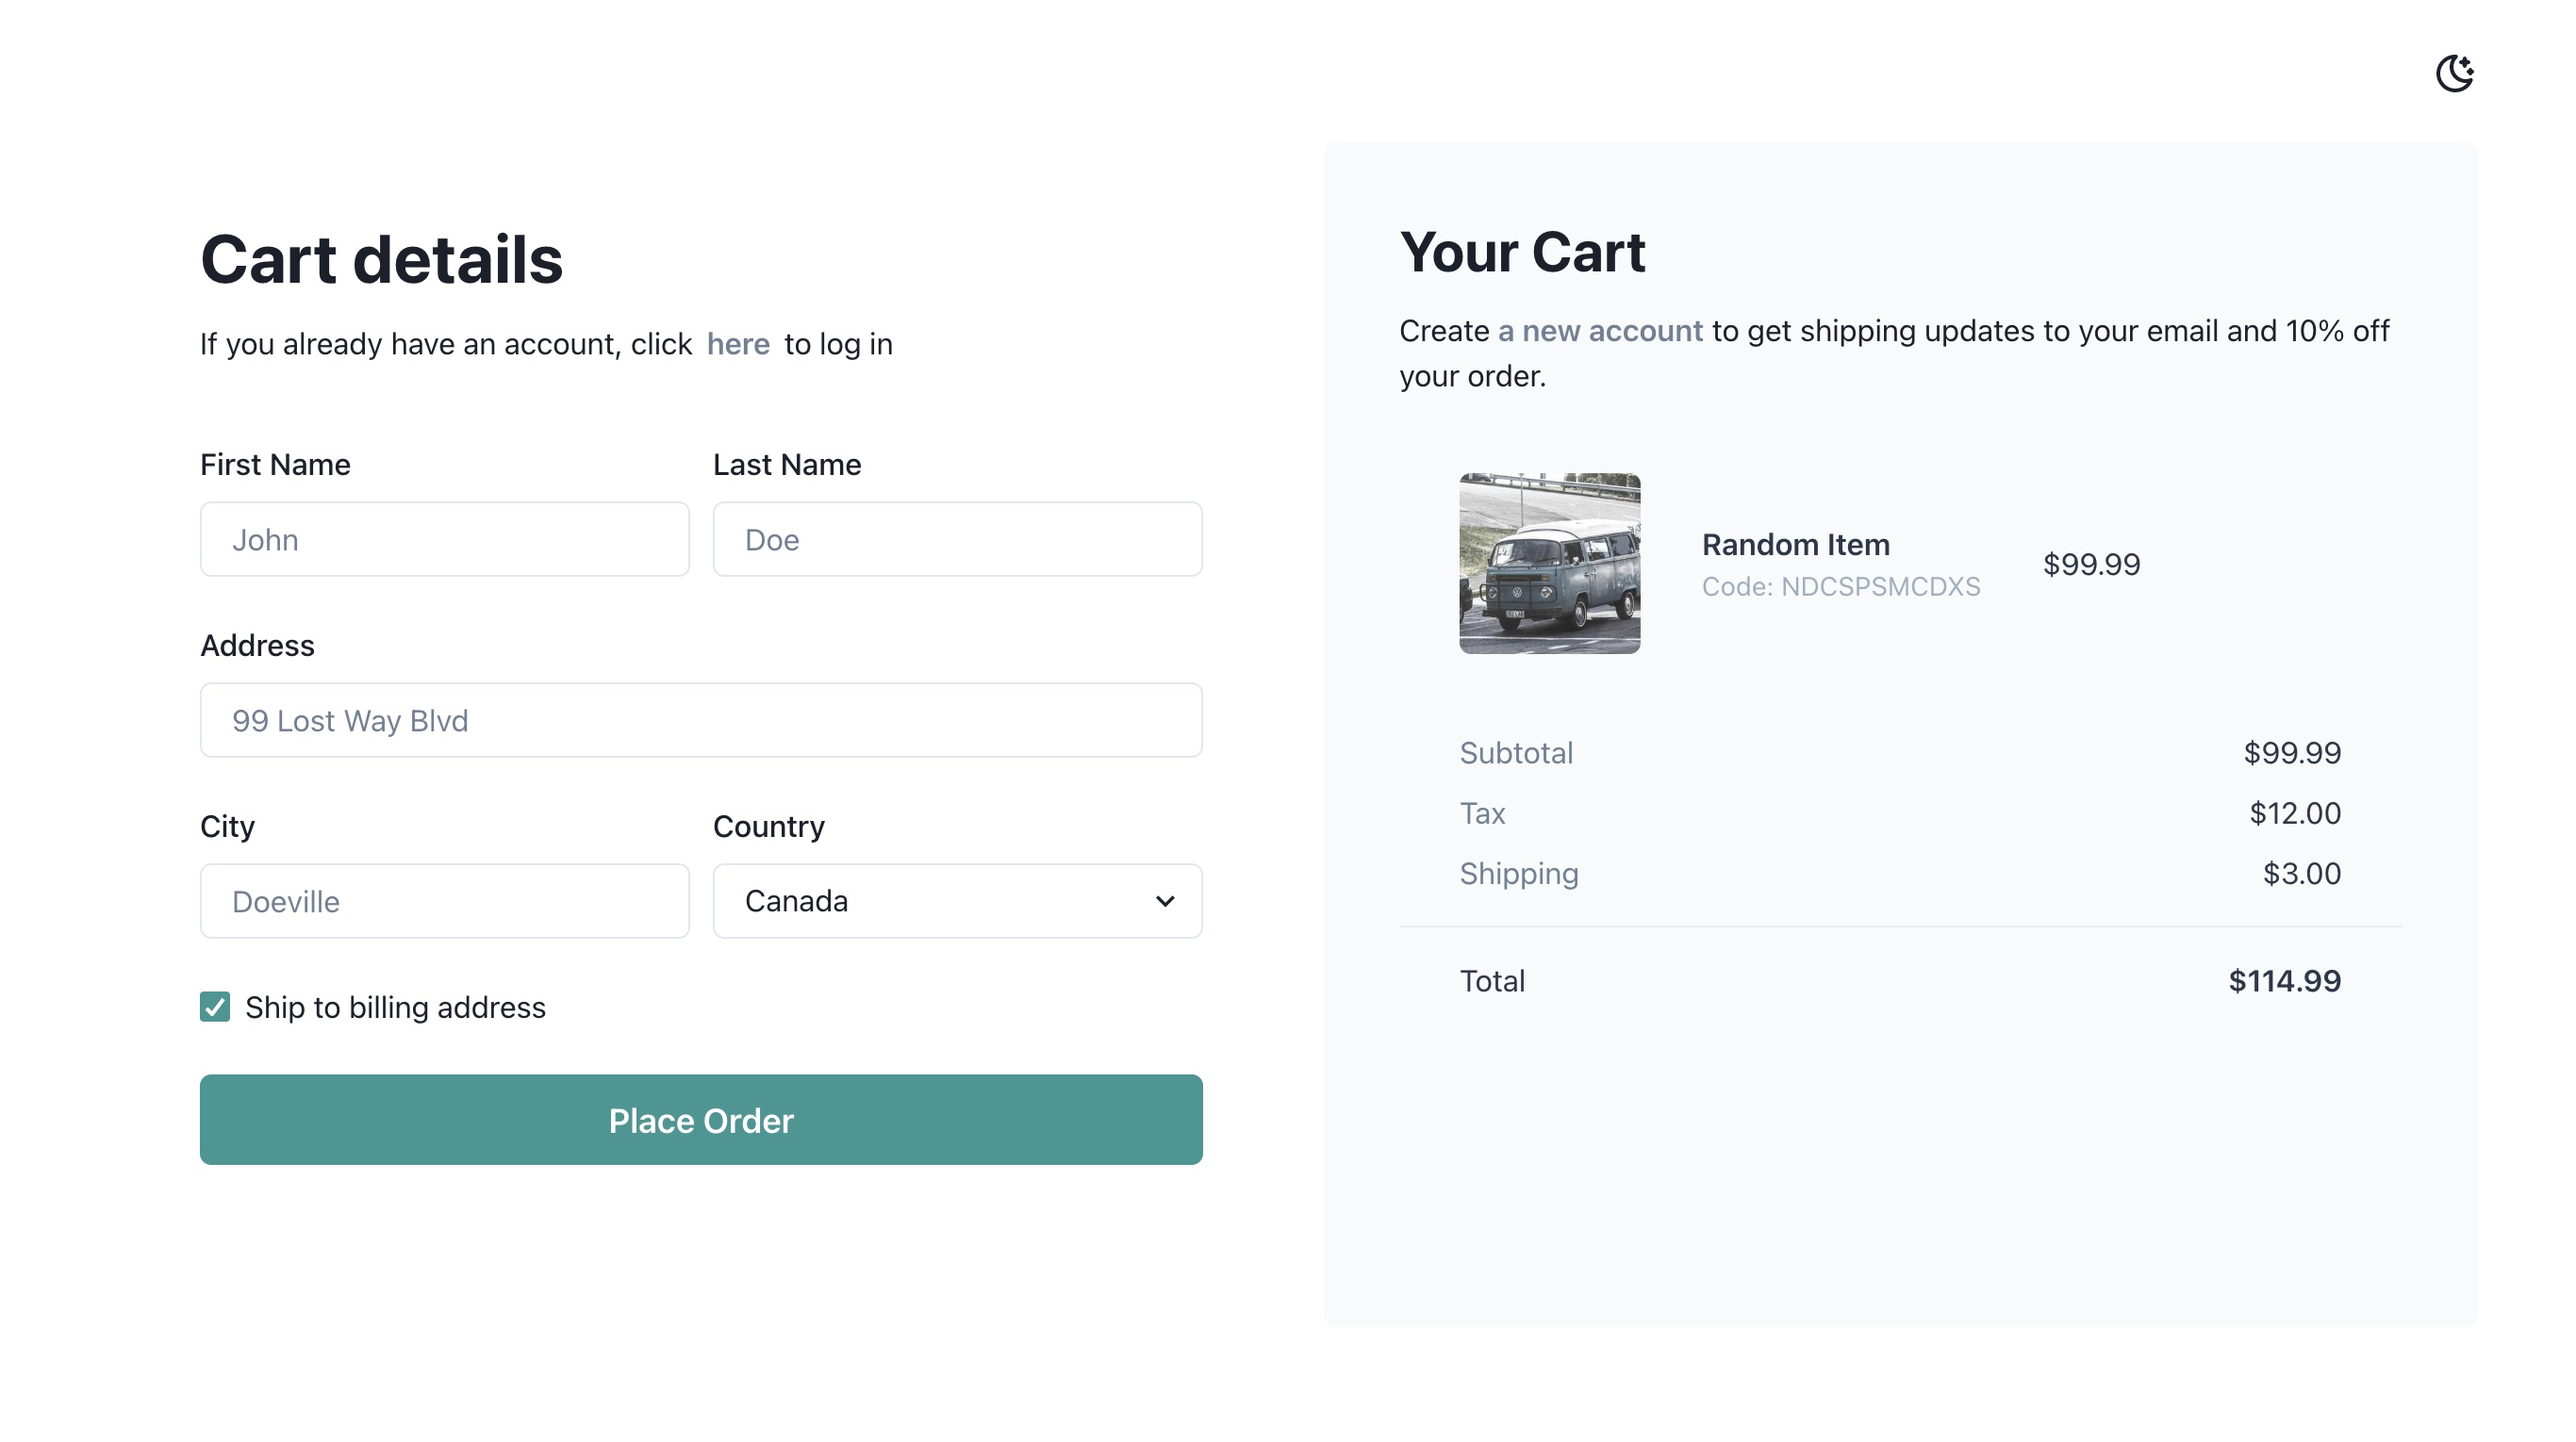
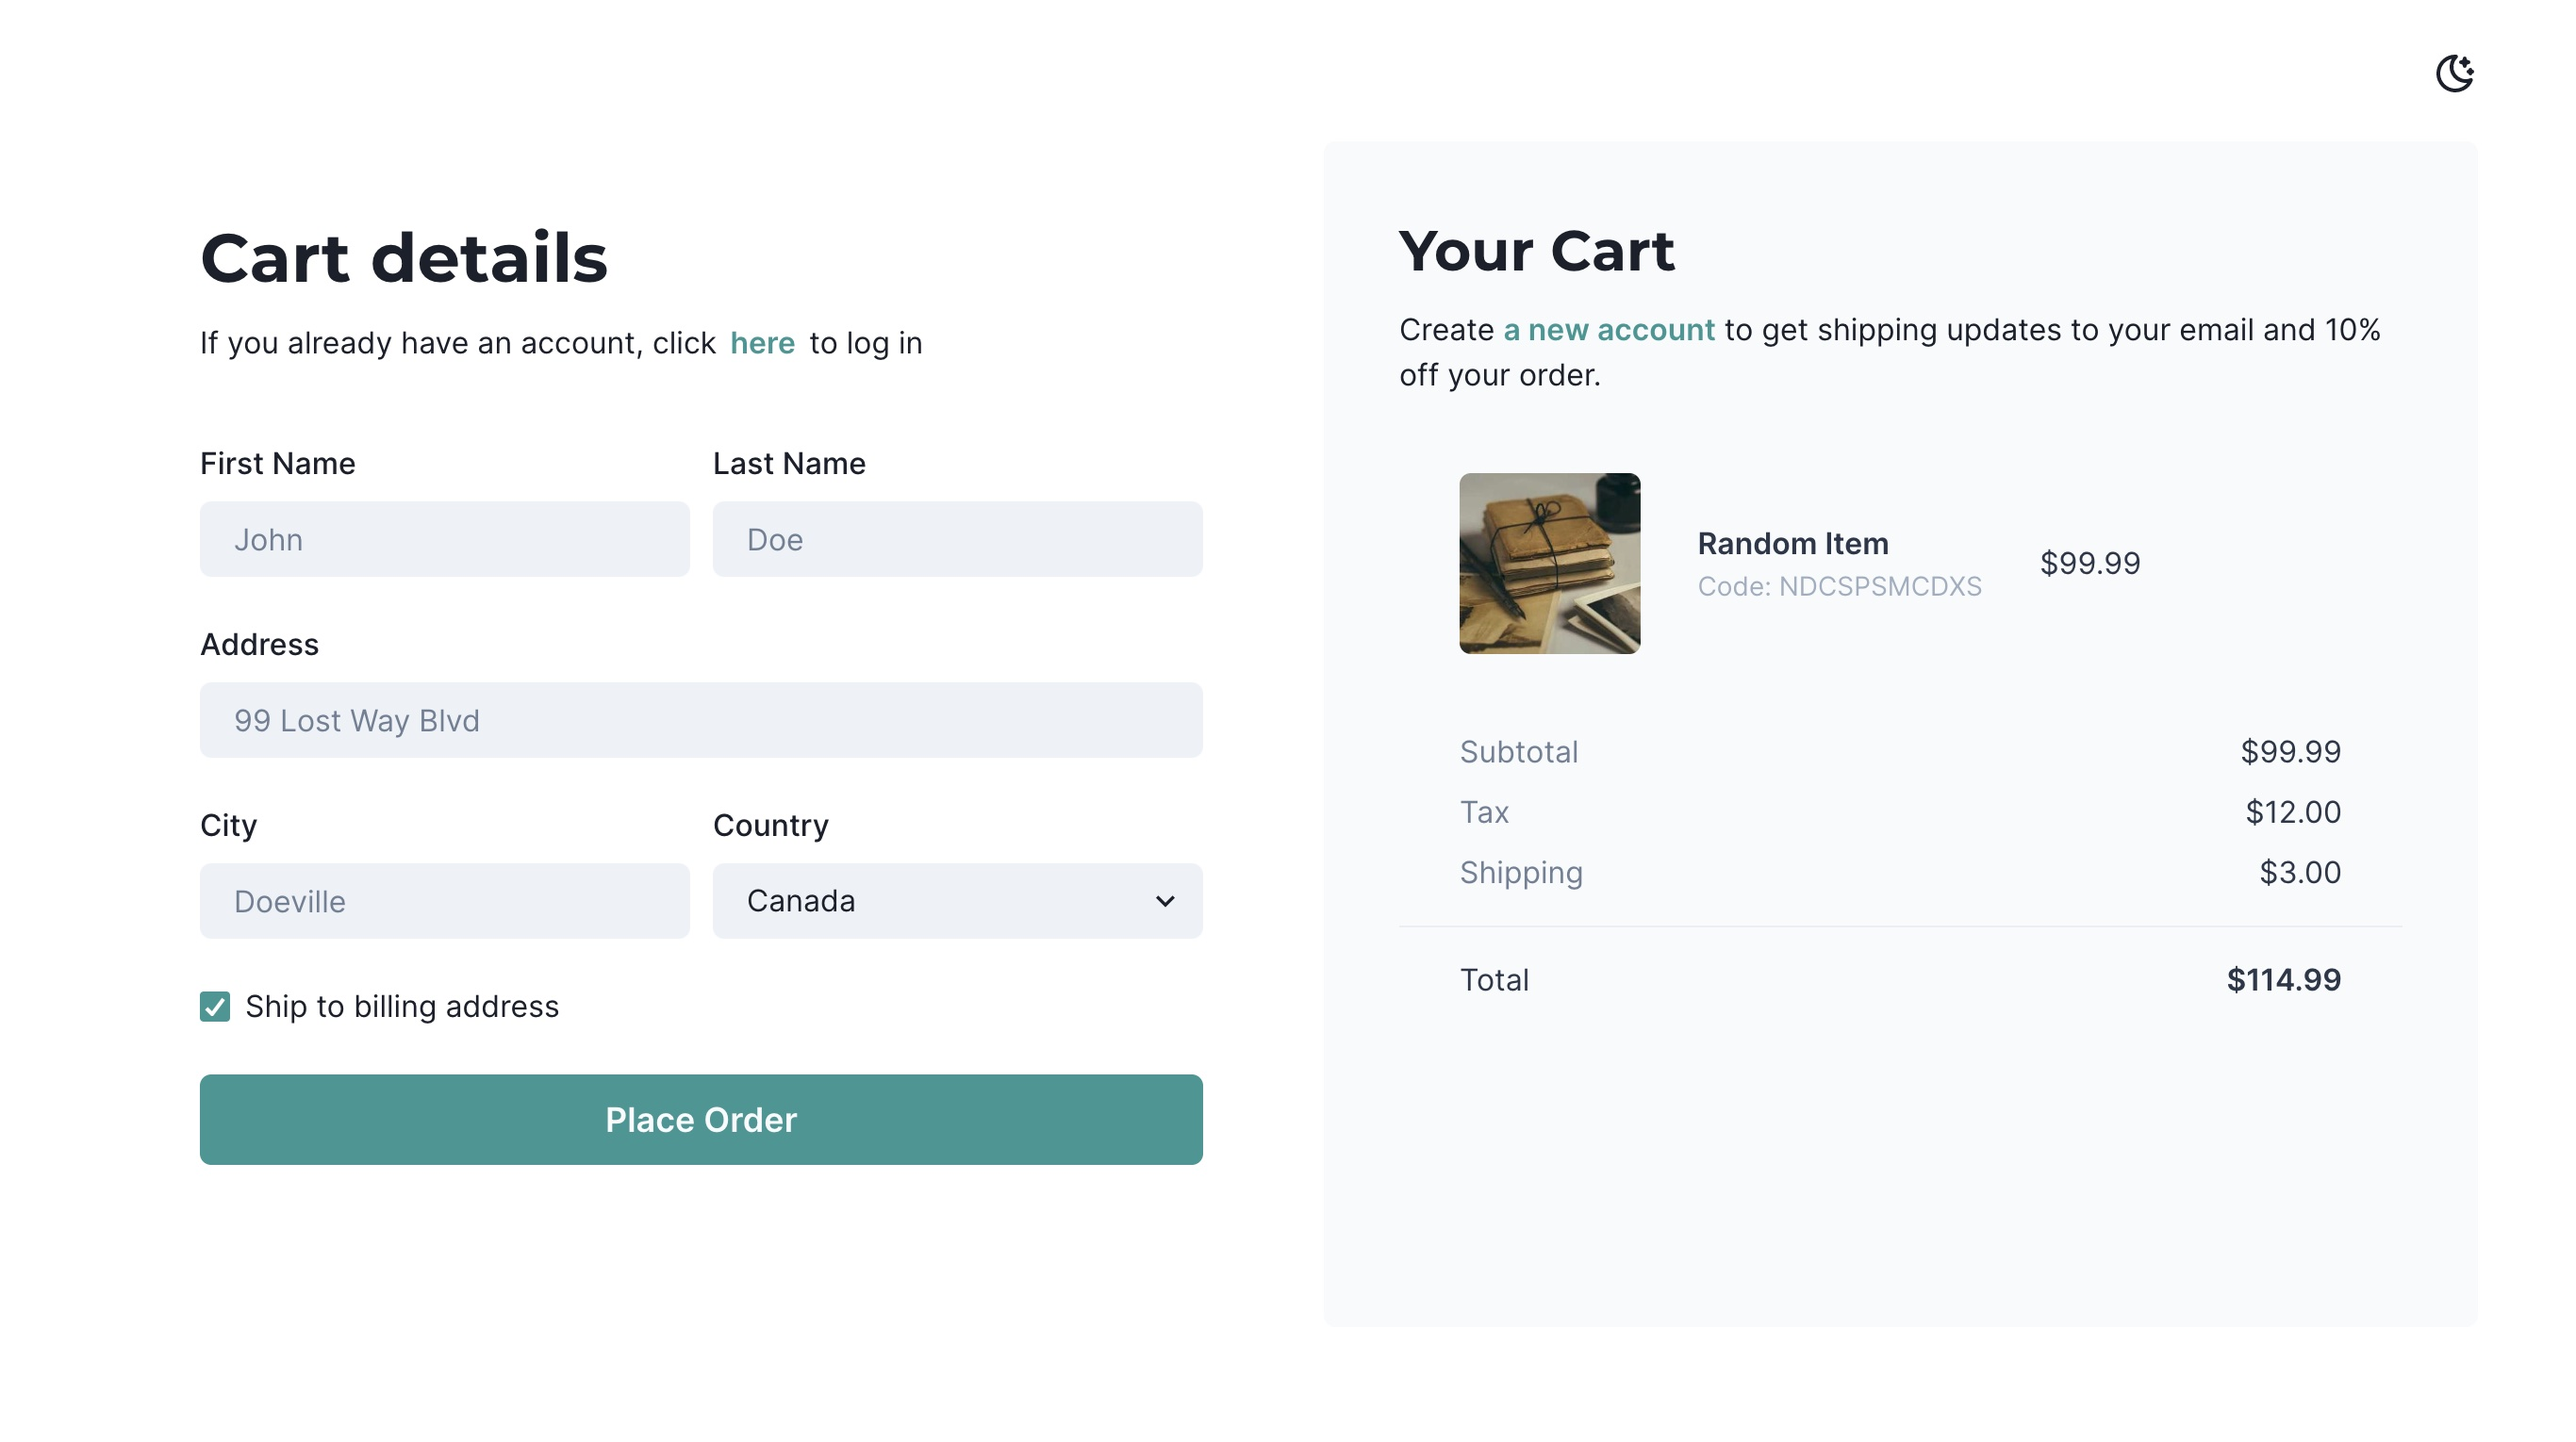
Extend Chakra theme

diff --git a/src/styles/chakra/theme.ts b/src/styles/chakra/theme.ts
@@ -1,13 +1,84 @@
-import { extendBaseTheme } from "@chakra-ui/react";
+import {
+  extendTheme,
+  theme as baseTheme,
+  withDefaultColorScheme,
+  withDefaultVariant,
+} from "@chakra-ui/react";
+import { mode } from "@chakra-ui/theme-tools";
 
 const colors = {
   brand: {
-    primary: "teal",
+    50: "#E6FFFA",
+    100: "#B2F5EA",
+    200: "#81E6D9",
+    300: "#4FD1C5",
+    400: "#38B2AC",
+    500: "#319795",
+    600: "#2C7A7B",
+    700: "#285E61",
+    800: "#234E52",
+    900: "#1D4044",
   },
 };
 
-const theme = extendBaseTheme({
-  colors,
-});
+const checkboxStyles = {
+  baseStyle: {
+    control: {
+      _focus: {
+        ring: 2,
+        ringColor: "brand.500",
+      },
+    },
+  },
+};
+
+const inputSelectStyles = {
+  variants: {
+    filled: {
+      field: {
+        _focus: {
+          borderColor: "brand.500",
+        },
+      },
+    },
+  },
+};
+
+const theme = extendTheme(
+  {
+    colors,
+    components: {
+      Button: {
+        variants: {
+          primary: (props: any) => ({
+            backgroundColor: mode("brand.500", "brand.200")(props),
+            color: mode("gray.50", "gray.900")(props),
+            _focus: {
+              ring: 2,
+              ringColor: "brand.500",
+            },
+            _hover:{
+              backgroundColor: mode("brand.600", "brand.300")(props),
+            }
+          }),
+        },
+      },
+      Checkbox: { ...checkboxStyles },
+      Input: { ...inputSelectStyles },
+      Select: { ...inputSelectStyles },
+    },
+    fonts: {
+      heading: `Montserrat, ${baseTheme.fonts?.heading}`,
+      body: `Inter, ${baseTheme.fonts?.body}`,
+    },
+  },
+  withDefaultColorScheme({
+    colorScheme: "brand",
+  }),
+  withDefaultVariant({
+    variant: "filled",
+    components: ["Input", "Select"],
+  })
+);
 
 export default theme;

diff --git a/src/pages/_app.tsx b/src/pages/_app.tsx
@@ -1,4 +1,4 @@
-import { ChakraBaseProvider, ChakraProvider } from "@chakra-ui/react";
+import { ChakraProvider } from "@chakra-ui/react";
 import type { AppProps } from "next/app";
 
 import theme from "@/styles/chakra/theme";
@@ -6,10 +6,8 @@ import "@/styles/globals.css";
 
 export default function App({ Component, pageProps }: AppProps) {
   return (
-    // <ChakraBaseProvider theme={theme}>
-    <ChakraProvider>
+    <ChakraProvider theme={theme}>
       <Component {...pageProps} />
     </ChakraProvider>
-    // </ChakraBaseProvider>
   );
 }

diff --git a/src/components/forms/cart/SimpleCart/CartDetails.tsx b/src/components/forms/cart/SimpleCart/CartDetails.tsx
@@ -71,12 +71,12 @@ const CartDetails: React.FC<CartDetailsProps> = () => {
           </FormControl>
         </GridItem>
         <GridItem colSpan={2}>
-          <Checkbox defaultChecked colorScheme="teal">
+          <Checkbox defaultChecked>
             Ship to billing address
           </Checkbox>
         </GridItem>
         <GridItem colSpan={2}>
-          <Button size="lg" w="full" colorScheme="teal">
+          <Button variant="primary" size="lg" w="full">
             Place Order
           </Button>
         </GridItem>

diff --git a/src/styles/globals.css b/src/styles/globals.css
@@ -1,0 +1,1 @@
+@import url("https://fonts.googleapis.com/css2?family=Inter:wght@100;200;300;400;500;600;700;800;900&family=Montserrat:ital,wght@0,100;0,200;0,300;0,400;0,500;0,600;0,700;0,800;0,900;1,100;1,200;1,300;1,400;1,500;1,600;1,700;1,800;1,900&family=Open+Sans:ital,wght@0,300;0,400;0,500;0,600;0,700;0,800;1,300;1,400;1,500;1,600;1,700;1,800&display=swap");

diff --git a/src/showcaseComponents/ShowcaseItems.tsx b/src/showcaseComponents/ShowcaseItems.tsx
@@ -13,12 +13,6 @@ const ShowcaseItems: React.FC<ShowcaseItemsProps> = () => {
         mobileResponsive={true}
         darkModeToggle={true}
       />
-
-      <ShowcaseItem
-        componentName="SimpleLogin"
-        mobileResponsive={true}
-        darkModeToggle={false}
-      />
     </UnorderedList>
   );
 };

diff --git a/README.md b/README.md
@@ -10,8 +10,8 @@ To use a component, copy the code from `./src/components/<component-dir>/<compon
 ```sh
 type ShowcaseItemProps = {
   componentName: string;
-  mobileResponsive: true | false;
-  darkModeToggle: true | false;
+  mobileResponsive: boolean;
+  darkModeToggle: boolean;
 };
 
 export const ShowcaseItem: React.FC<ShowcaseItemProps> = ({
@@ -39,9 +39,3 @@ export const ShowcaseItem = ({
 
 ![Simple cart page](./docs/SimpleCart1.jpg)
 ![Simple cart page](./docs/SimpleCart2.jpg)
-
-##### SimpleLogin
-- [x] Mobile responsive
-- [ ] Toggle color mode
-
-![Simple login page](./docs/SimpleLogin.jpg)
